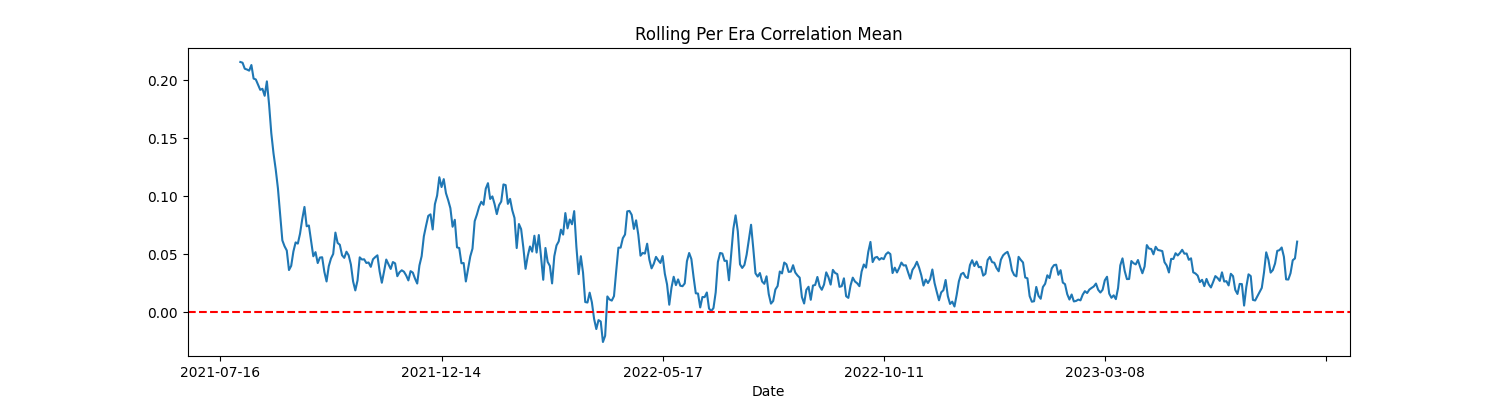
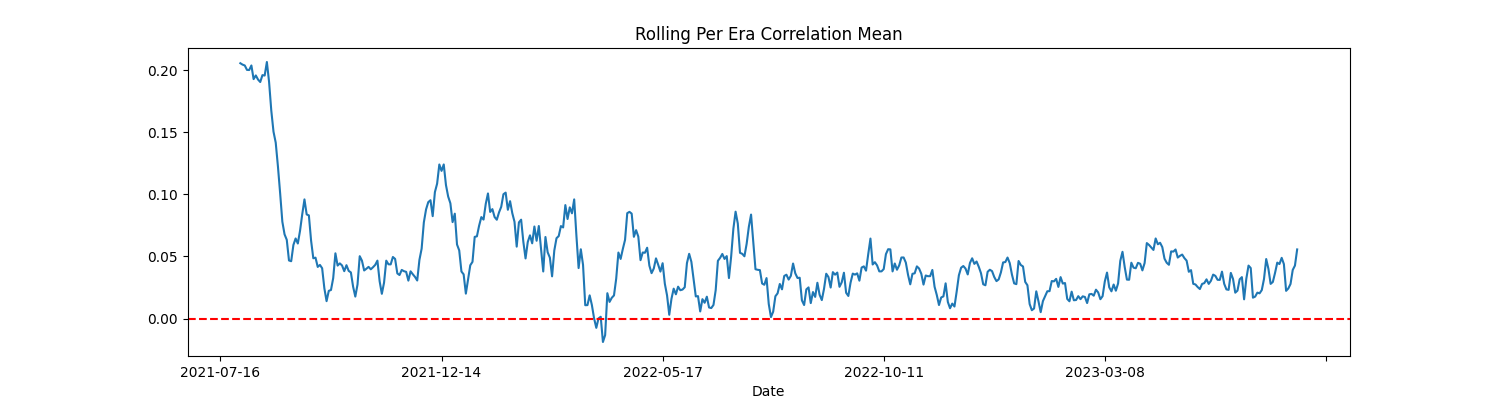
increase datas

diff --git a/forecast.py b/forecast.py
@@ -18,7 +18,7 @@ import shap
 
 # 各種設定
 # DATA_USE_RATEは最大1で181万データ
-SEED = 42
+SEED = 1234
 MODEL = "GBM"
 DATA_USE_RATE = 1
 DO_SHAP = True
@@ -146,9 +146,9 @@ def score(df, target='ret1', pred='y_pred'):
 
 def run_analytics(scores, figname):
     # 各統計値を計算
-    '''
     print(f"Mean Correlation: {scores.mean():.4f}")
     print(f"Median Correlation: {scores.median():.4f}")
+    '''
     print(f"Standard Deviation: {scores.std():.4f}")
     print(f"Mean Pseudo-Sharpe: {scores.mean()/scores.std():.4f}")
     print(f"Median Pseudo-Sharpe: {scores.median()/scores.std():.4f}")
